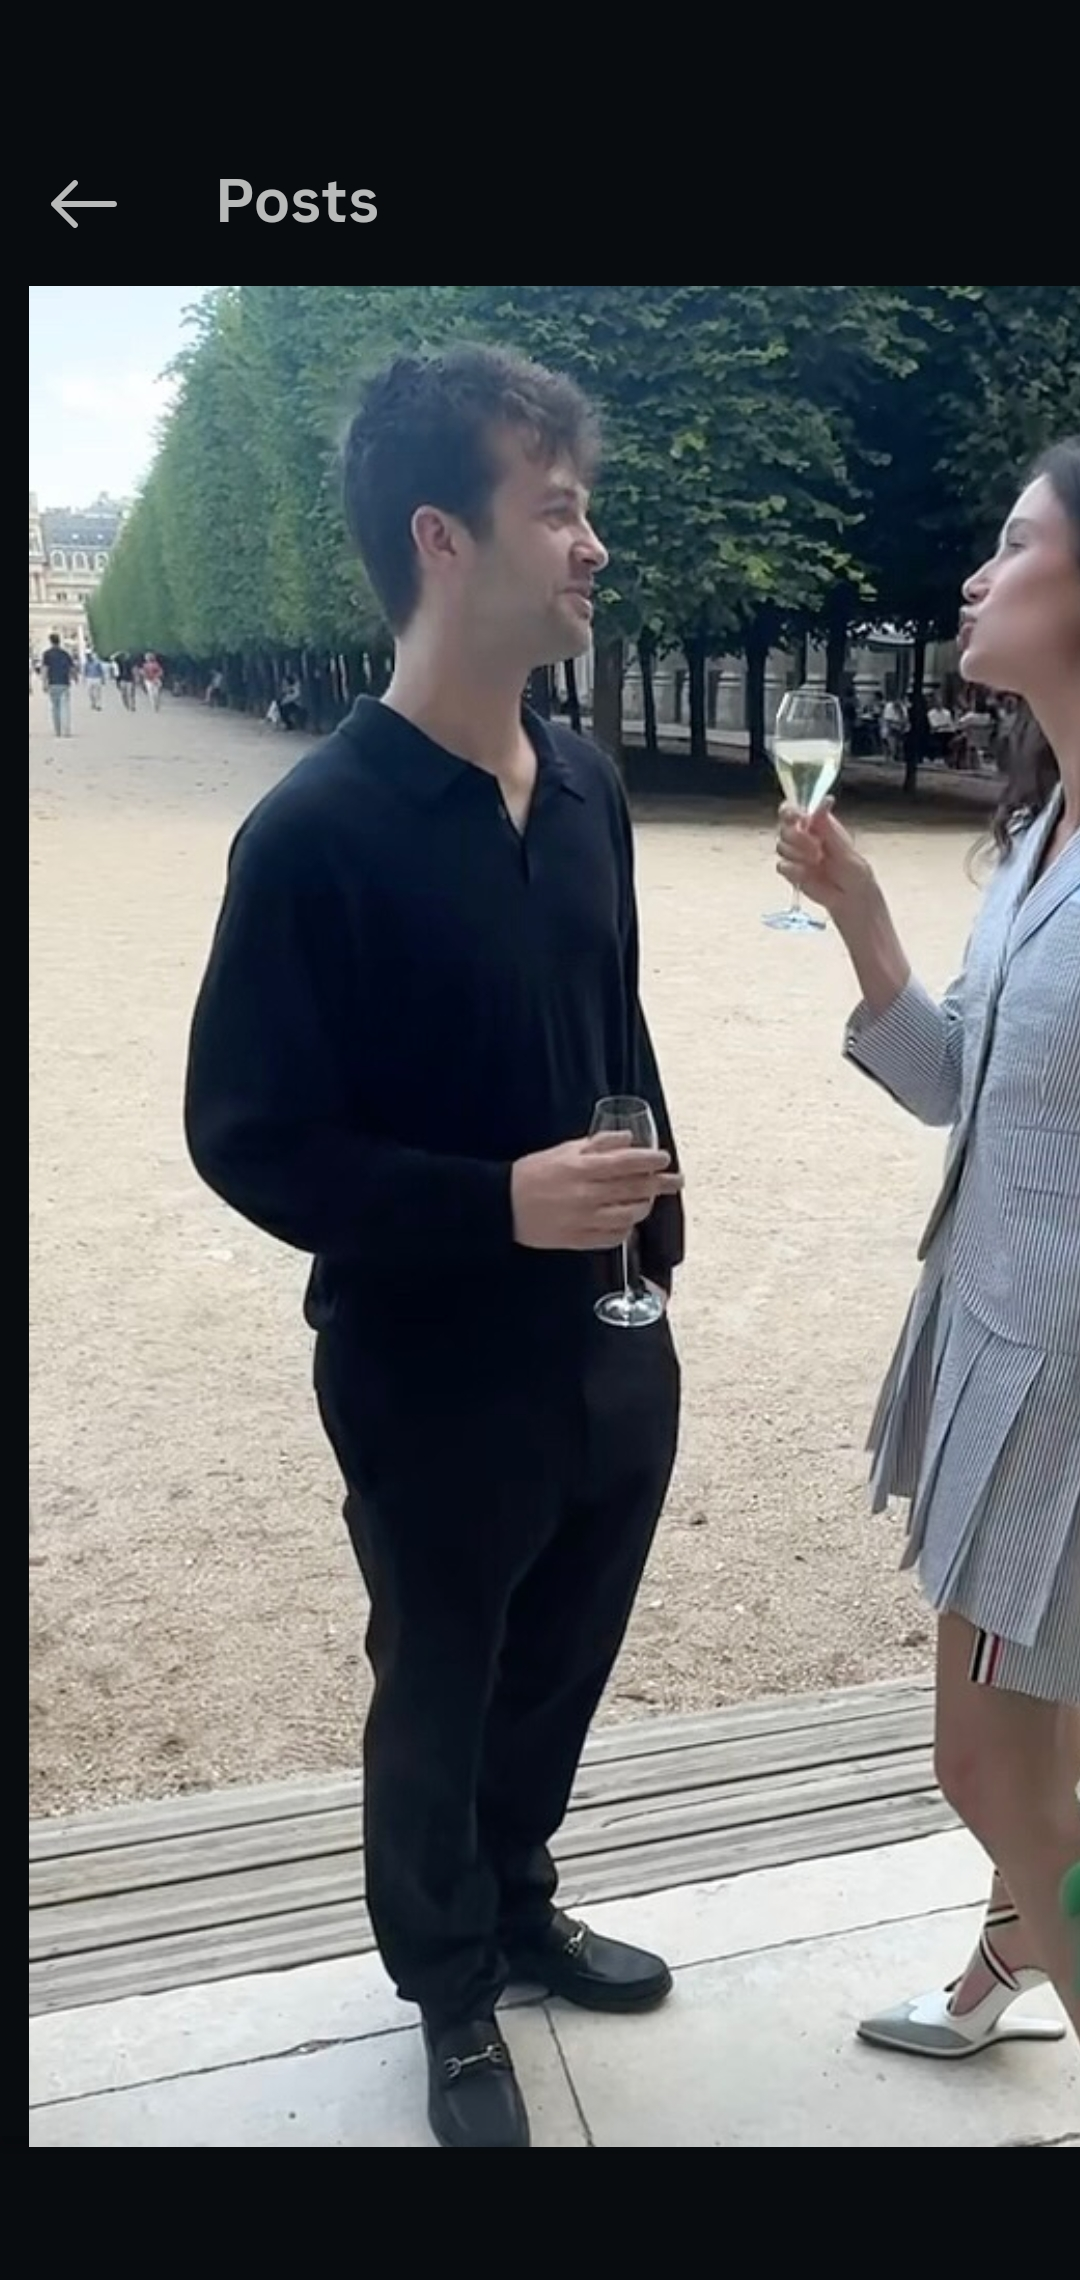
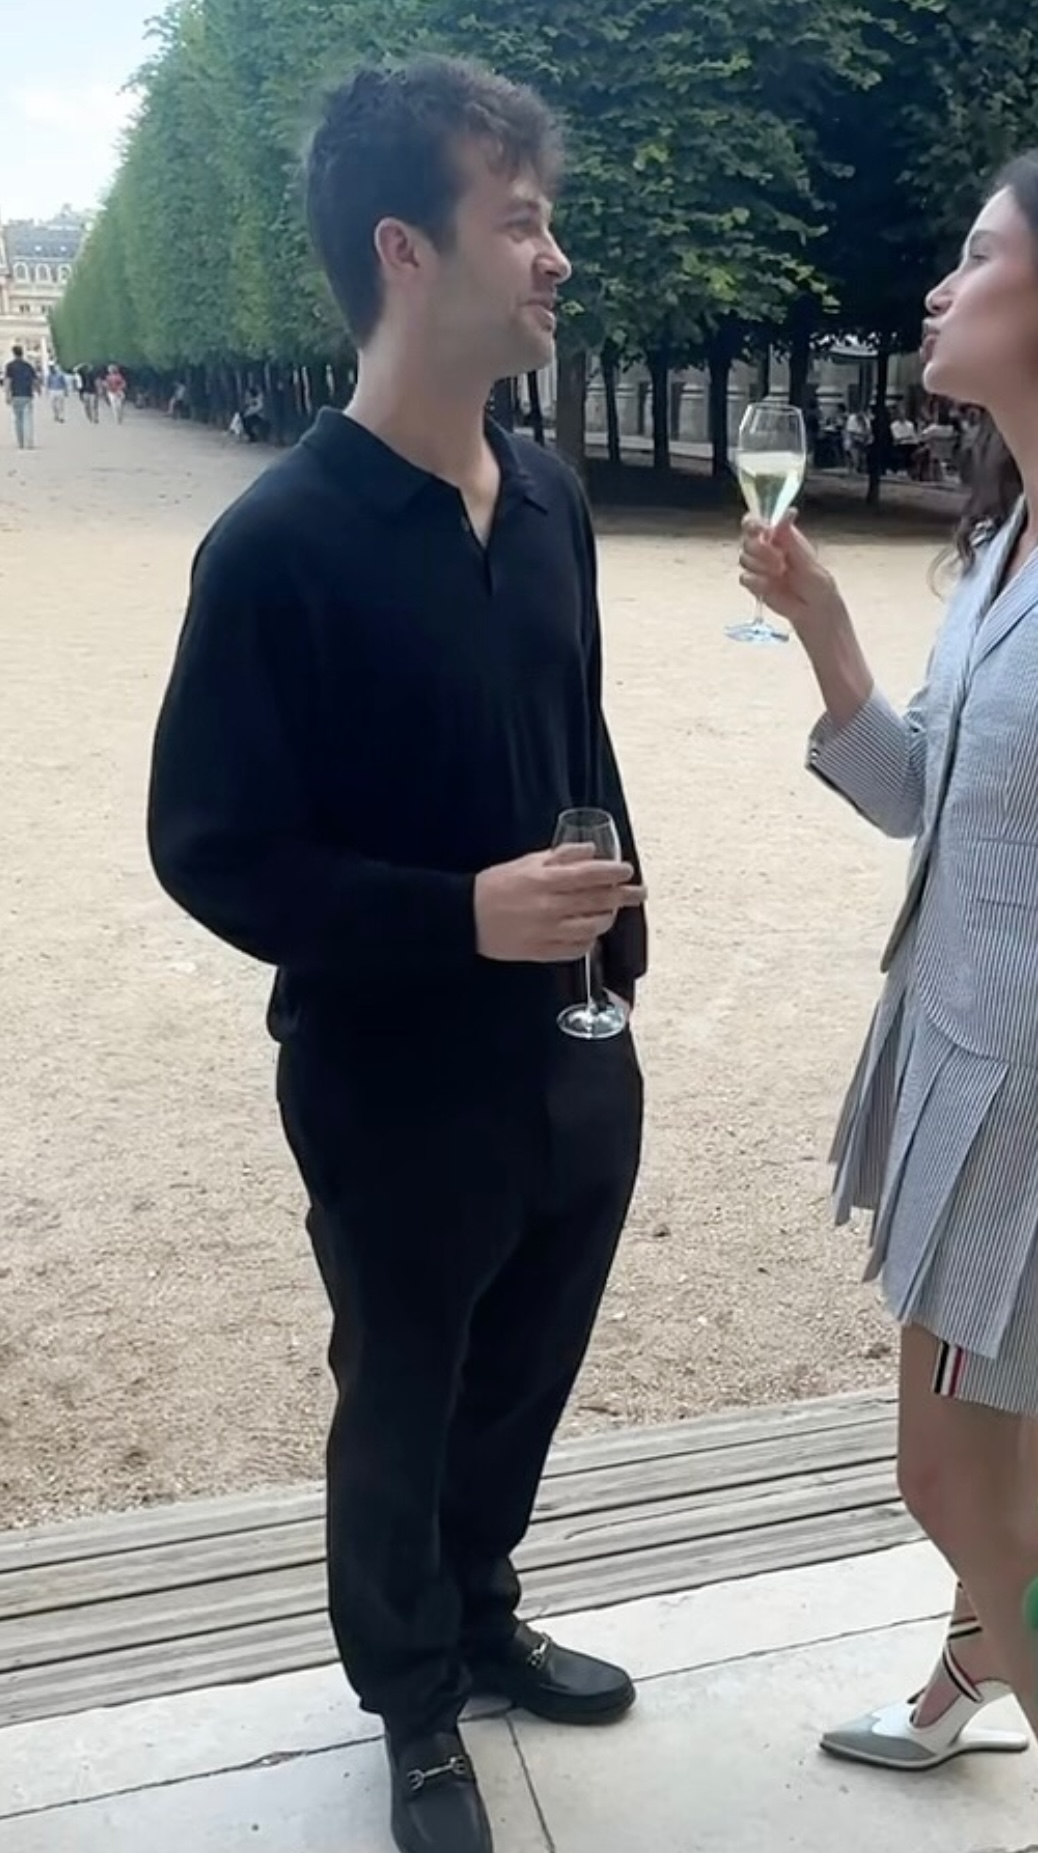
Update Katie, Ned, and Christina (Tina) voice portraits
Replaced assets from edited Downloads JPGs; cache-bust Voices page URLs.

Made-with: Cursor

diff --git a/invitees.html b/invitees.html
@@ -96,7 +96,7 @@
           <article class="invitee-card panel">
             <img
               class="invitee-photo"
-              src="assets/voices/christina.jpg?v=20260413"
+              src="assets/voices/christina.jpg?v=20260427-2"
               width="800"
               height="800"
               alt="Portrait of Christina"
@@ -108,7 +108,7 @@
           <article class="invitee-card panel">
             <img
               class="invitee-photo"
-              src="assets/voices/ned.jpg?v=20260413"
+              src="assets/voices/ned.jpg?v=20260427-2"
               width="800"
               height="800"
               alt="Portrait of Ned"
@@ -120,7 +120,7 @@
           <article class="invitee-card panel">
             <img
               class="invitee-photo"
-              src="assets/voices/katie.jpg?v=20260413"
+              src="assets/voices/katie.jpg?v=20260427-2"
               width="800"
               height="800"
               alt="Portrait of Katie"
